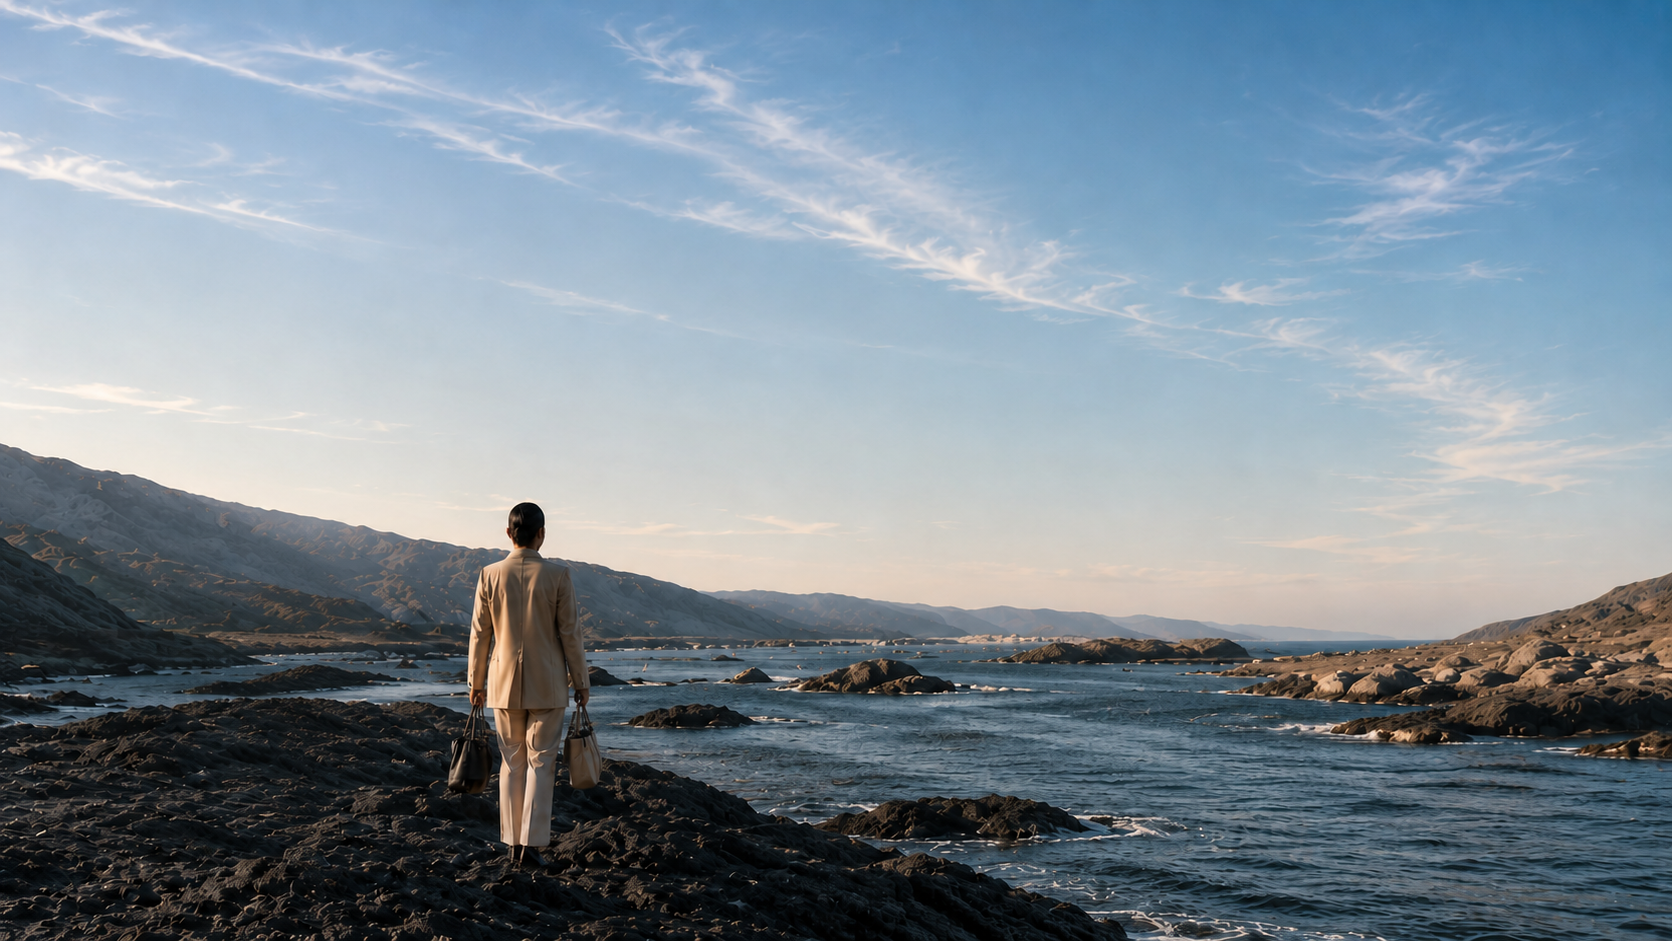
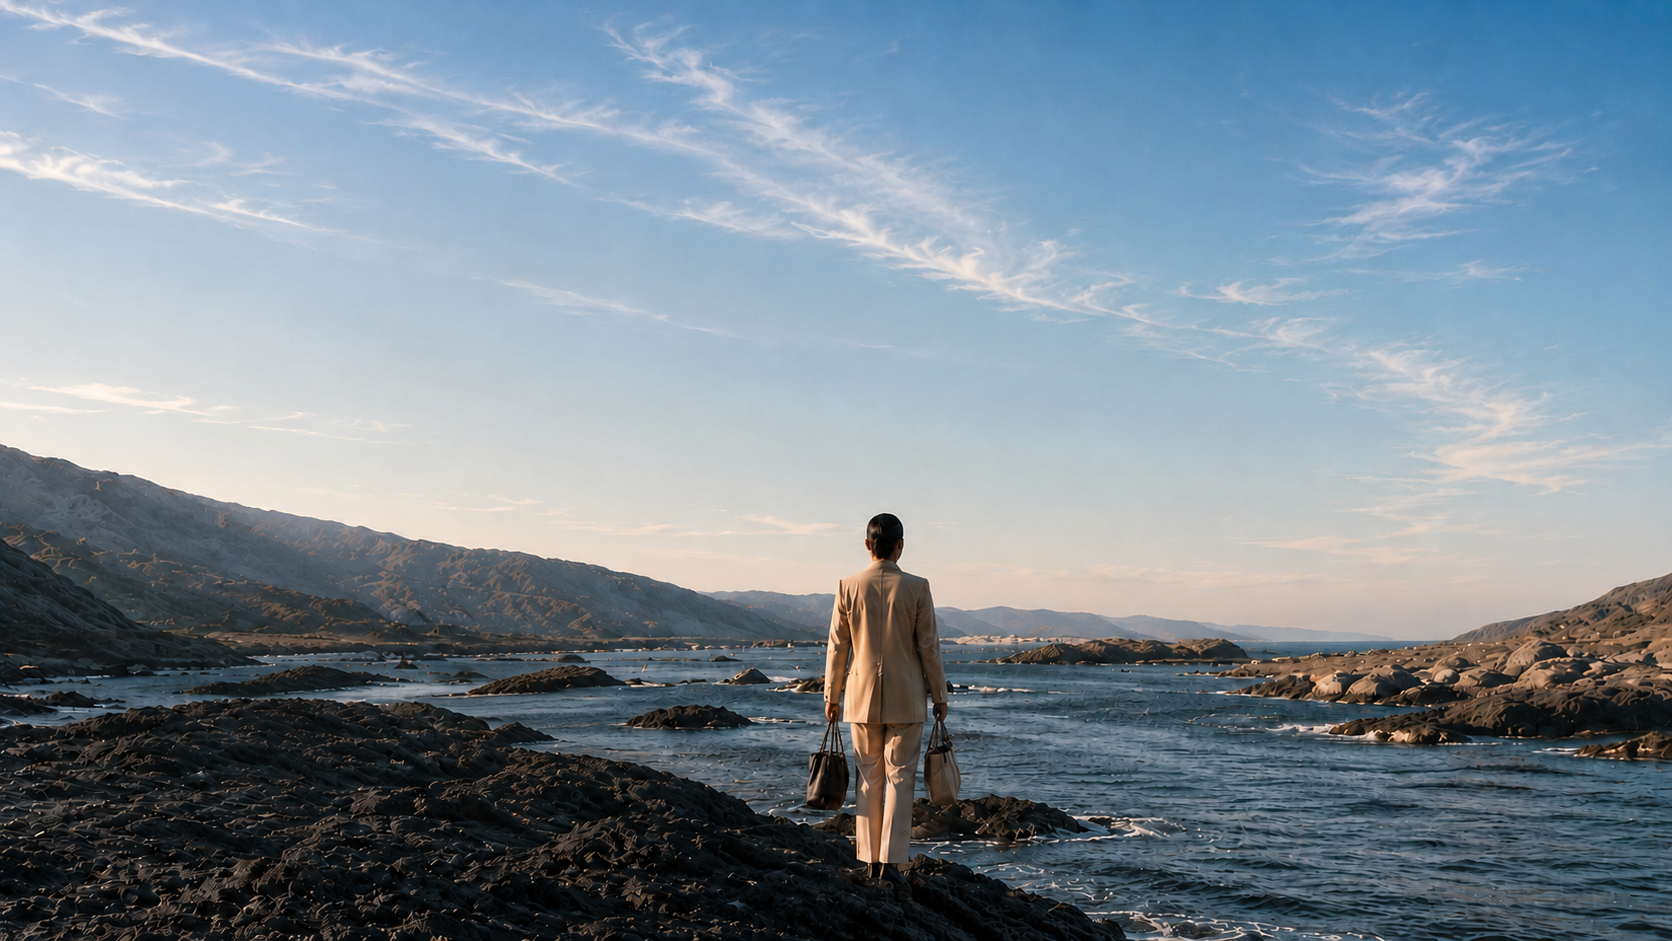
Refactor: Se realizan cambio visuales de registro y logica de login

diff --git a/frontend/pages/register.html b/frontend/pages/register.html
@@ -11,7 +11,7 @@
 </head>
 
 <body
-    class="min-h-screen  bg-[url('../assets/images/register/hero/register-hero-7.png')] bg-cover bg-center bg-no-repeat font-[fuente1] leading-[1.3]">
+    class="min-h-screen  bg-[url('../assets/images/register/hero/register-hero-7.png')] bg-cover bg-[90%_0] bg-no-repeat font-[fuente1] leading-[1.3]">
     <header
         class="fixed z-50 top-0 left-0 w-full bg-transparent px-[15px] sm:px-[25px] md:px-[30px] py-[6px] flex items-center justify-between"
         id="header">
@@ -23,7 +23,7 @@
 
     </header>
 
-    <main class="pt-[50px] sm:pt-[70px] lg:pt-[90px] pb-[40px] px-[15px] sm:px-[20px] md:px-[25px] lg:pr-[120px]">
+    <main class="pt-[50px] sm:pt-[70px] lg:pt-[90px] pb-[40px] px-[15px] sm:px-[20px] md:px-[25px] lg:pr-[70px] xl:pr-[50px] xl:pl-[100px]">
         <section
             class="flex flex-col lg:flex-row justify-center items-center lg:items-stretch gap-[25px] lg:gap-0 pt-[15px]">
             <div
@@ -94,8 +94,7 @@
             </div>
 
             <div
-                class="w-full max-w-[580px] md:max-w-[650px] lg:max-w-none lg:flex-1 flex flex-col text-[var(--color-text)] py-5 pb-[30px] bg-white rounded-[10px] shadow-[0_4px_20px_rgba(0,0,0,0.10)] mx-auto">
-
+                class="w-full max-w-[580px] md:max-w-[620px] lg:max-w-[520px] flex flex-col text-[var(--color-text)] py-5 pb-[30px] bg-white rounded-[10px] shadow-[0_4px_20px_rgba(0,0,0,0.10)] mx-auto">
                 <div class="flex flex-col px-[20px] sm:px-[30px] lg:px-[10%] text-center sm:text-left">
                     <span
                         class="text-[11px] sm:text-[13px] lg:text-[14px] tracking-[3px] scale-y-[0.7] text-[var(--color-text-4)]">

diff --git a/frontend/scripts/modules/login.js b/frontend/scripts/modules/login.js
@@ -138,4 +138,22 @@ if (formularioLogin) {
       );
     }
   });
+
+  const botonVerContrasena = document.getElementById("boton-ver-contraseña");
+  const iconoMostrarContrasena = document.getElementById("icono-mostrar-contraseña");
+  const iconoOcultarContrasena = document.getElementById("icono-ocultar-contraseña");
+
+  botonVerContrasena.addEventListener("click", function () {
+    if (campoContrasena.type === "password") {
+      campoContrasena.type = "text";
+
+      iconoMostrarContrasena.classList.add("hidden");
+      iconoOcultarContrasena.classList.remove("hidden");
+    } else {
+      campoContrasena.type = "password";
+
+      iconoMostrarContrasena.classList.remove("hidden");
+      iconoOcultarContrasena.classList.add("hidden");
+    }
+  });
 }

diff --git a/frontend/pages/login.html b/frontend/pages/login.html
@@ -142,7 +142,7 @@
           <div
             class="flex flex-col sm:flex-row justify-center gap-[2px] sm:gap-[5px] pt-[18px] text-center text-[15px] sm:text-[15px]">
             <p>¿No tienes cuenta?</p>
-            <a class="text-[var(--color-text-5)] font-semibold no-underline" href="../pages/login.html">Crear cuenta
+            <a class="text-[var(--color-text-5)] font-semibold no-underline" href="./register.html">Crear cuenta
               aquí</a>
           </div>
         </form>
